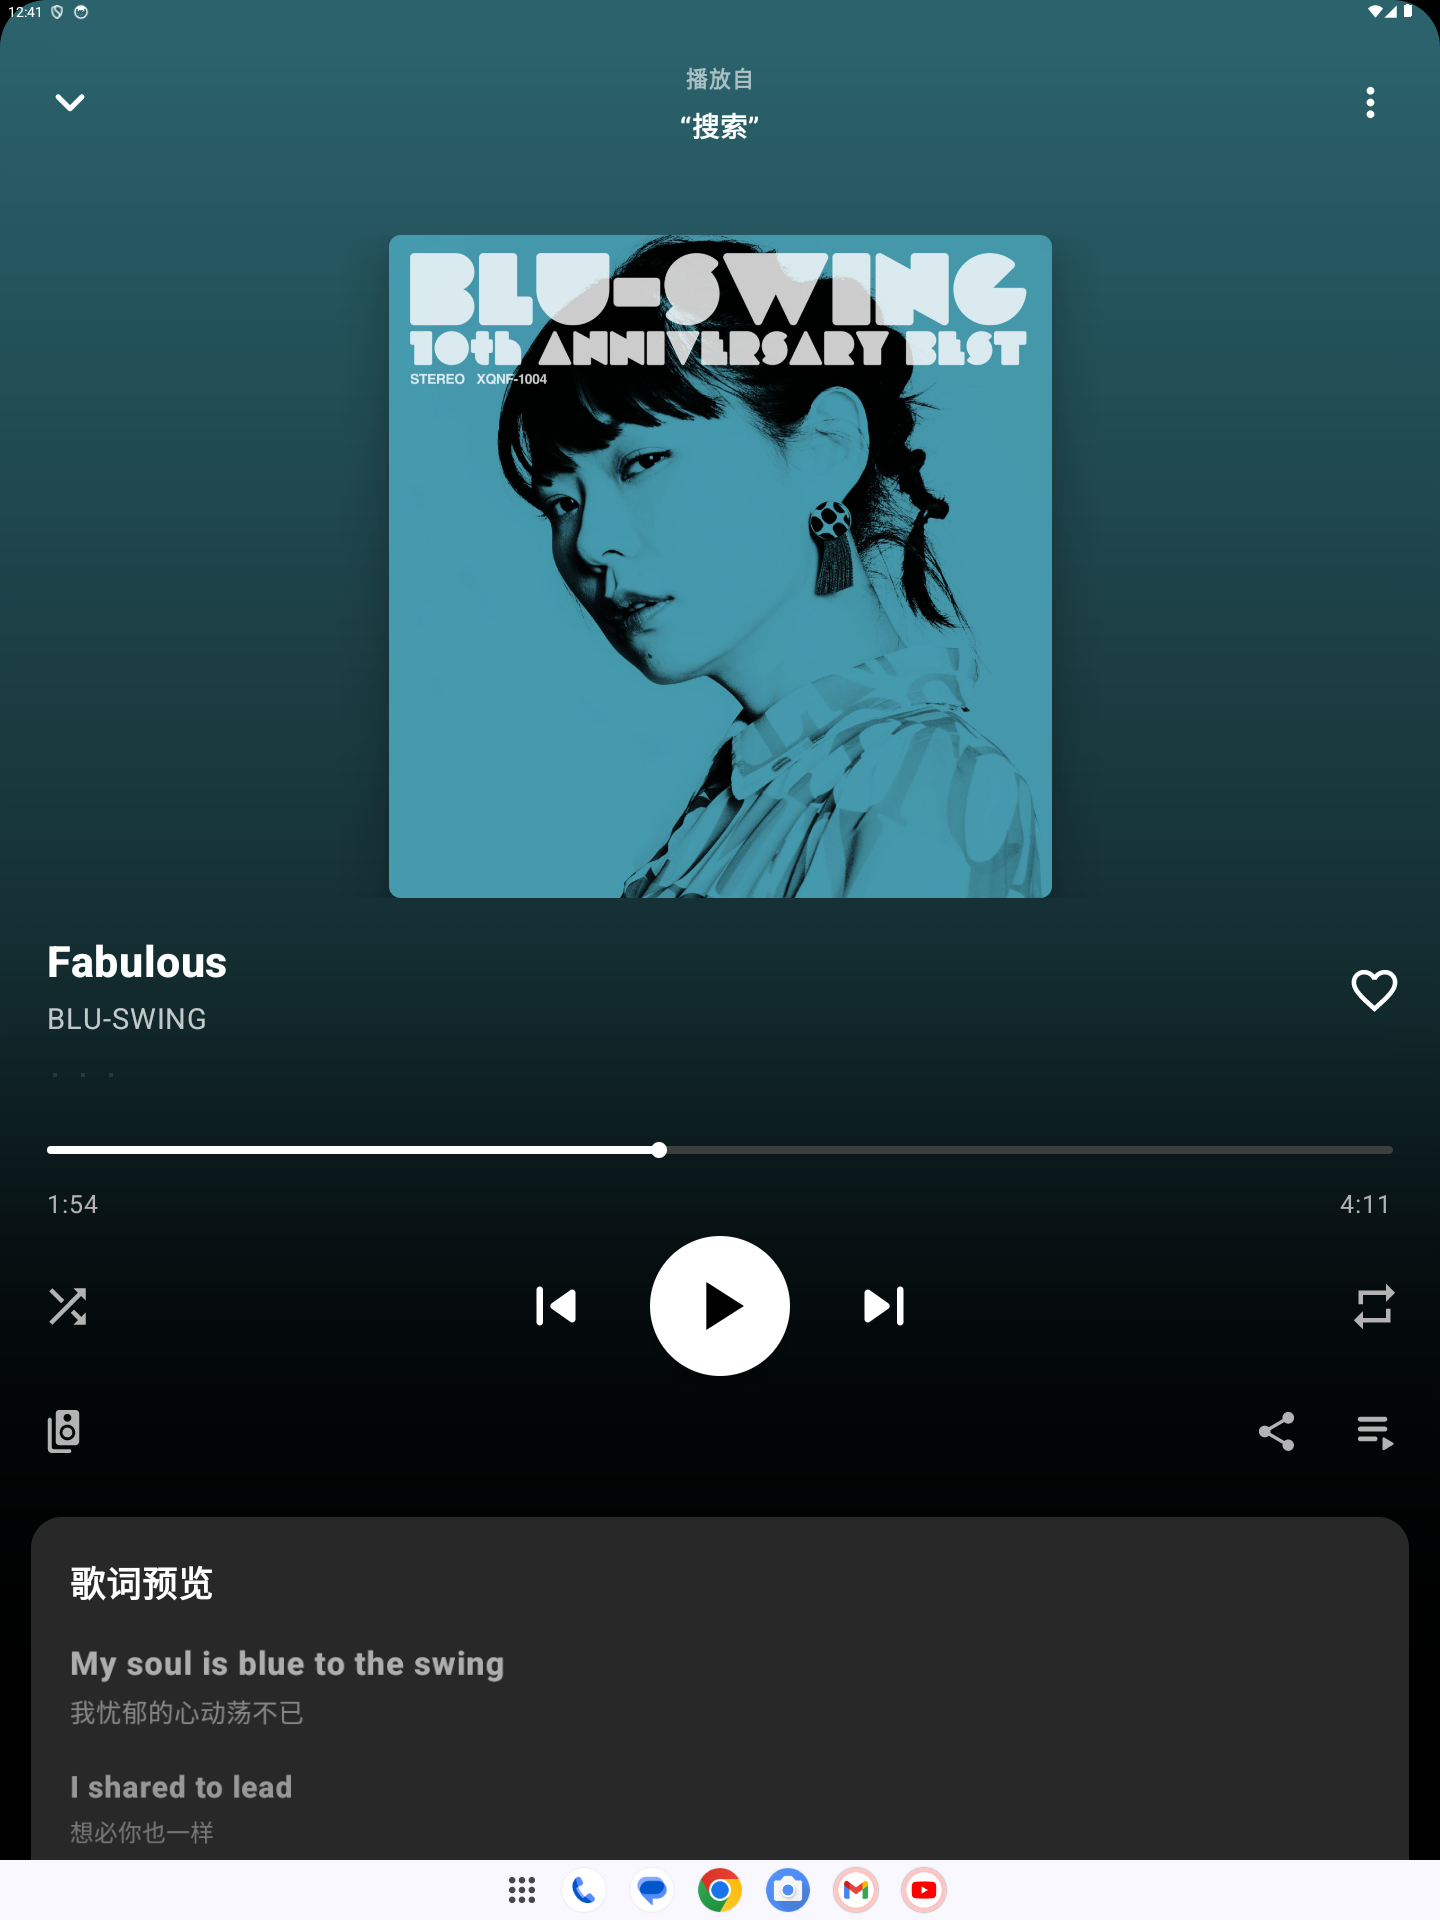
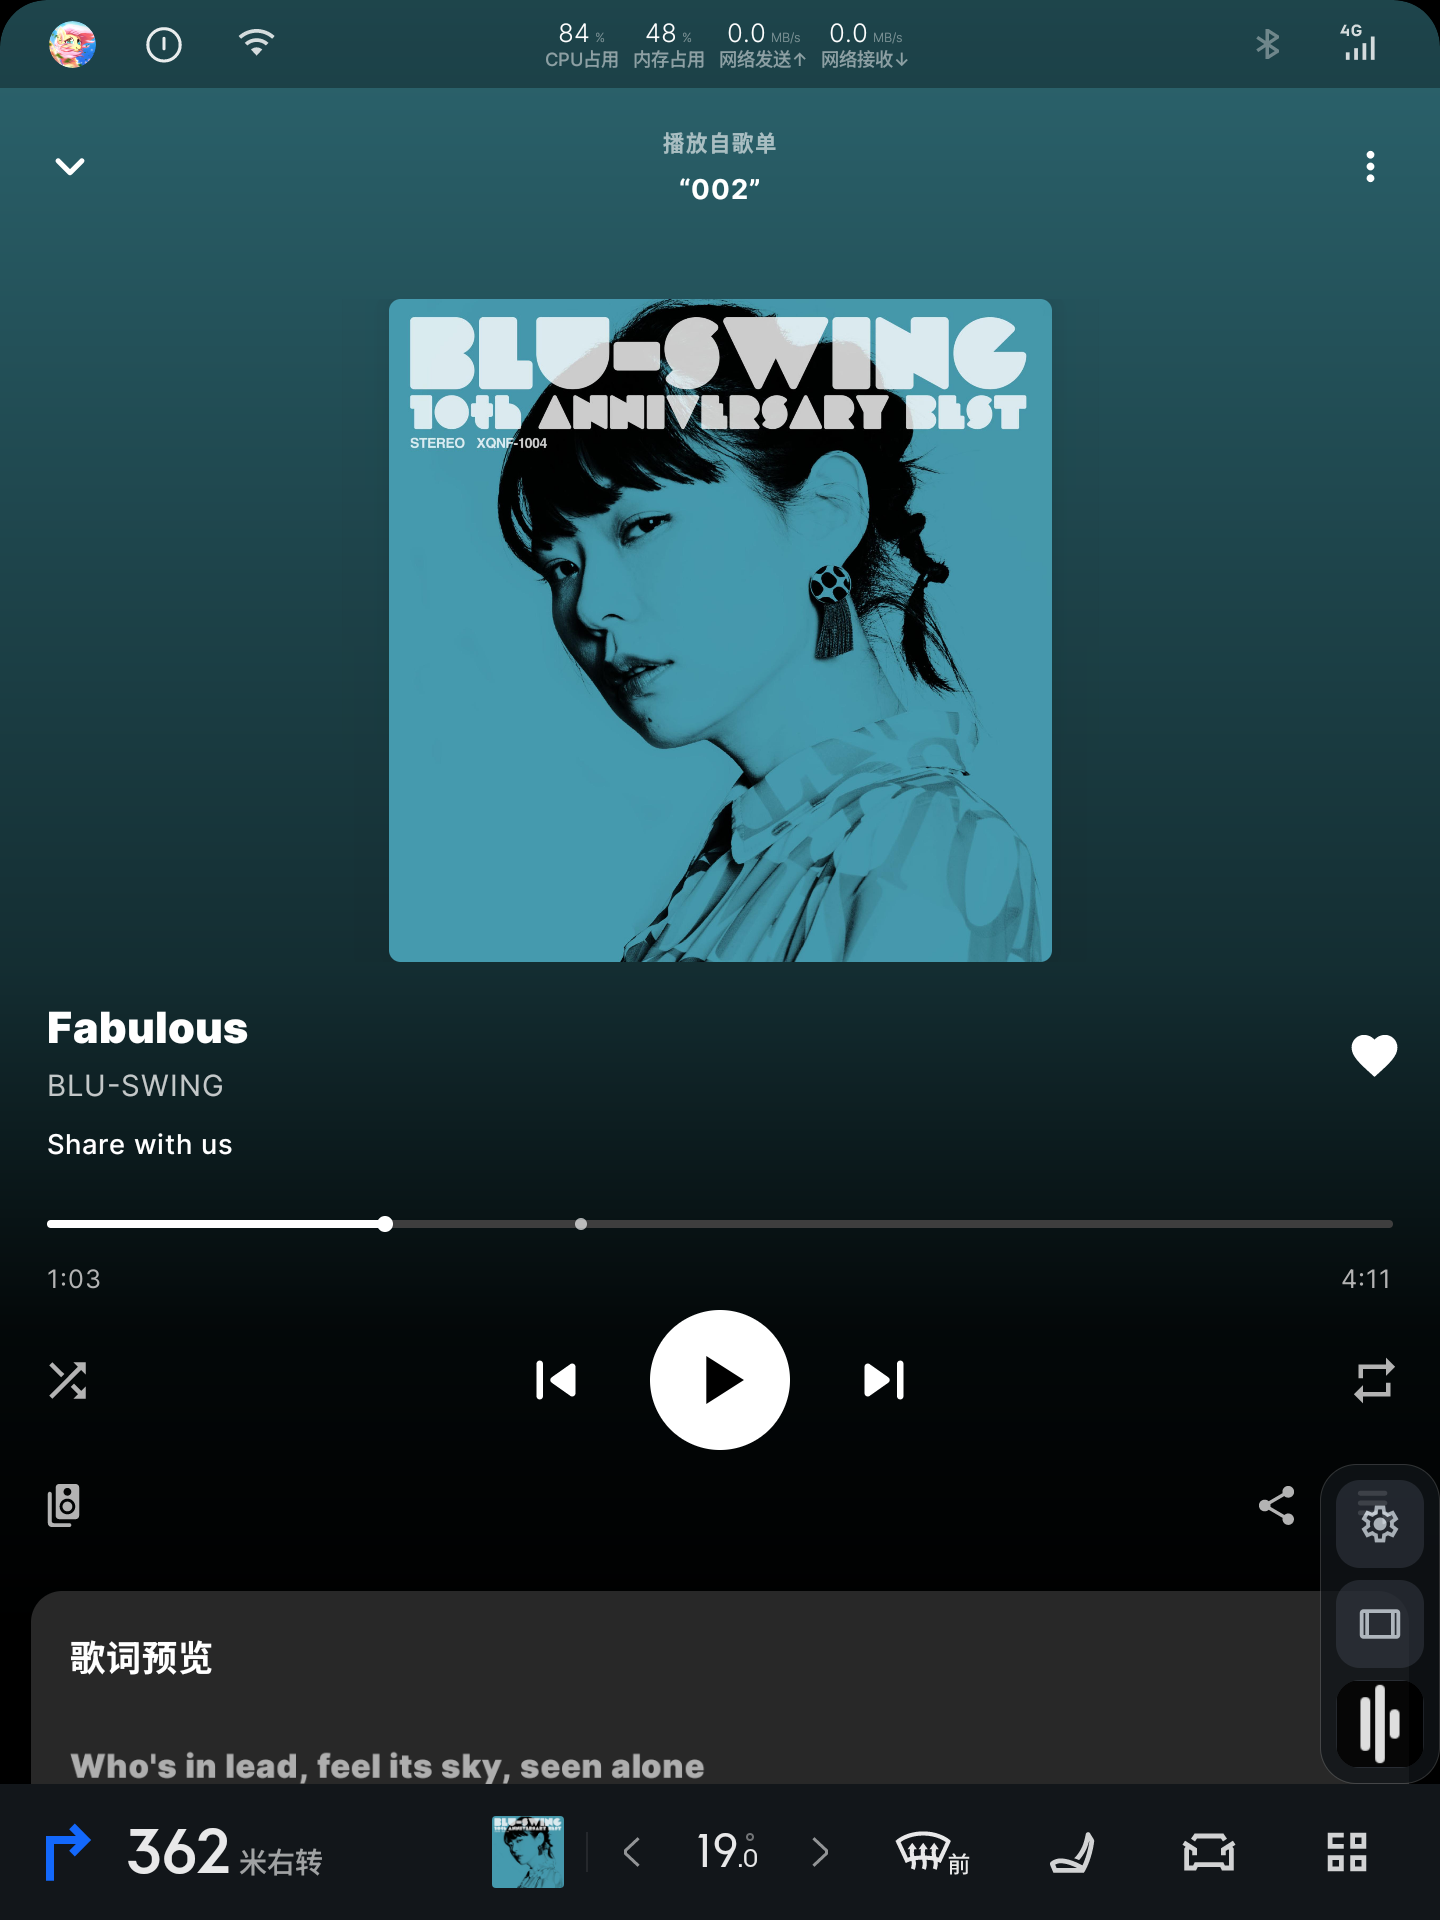
docs: replace dual-display images with in-car screenshots

Changed region(s): [[0.0, 0.4688, 1.0, 1.0], [0.0, 0.0, 1.0, 0.5], [0.9375, 0.5, 0.9688, 0.5625]]

diff --git a/README.md b/README.md
@@ -6,8 +6,6 @@
 
 ## 主屏与副屏同显
 
-以 **《Fabulous》— BLU-SWING** 为例：主驾竖屏显示封面和播放控件，副驾宽屏可以同时显示同一首歌及歌词卡片。两屏共享歌曲、播放进度和暂停状态；各自的页面切换与滚动位置独立。
-
 <table>
   <tr><th>主屏 · 1440 × 1920</th><th>副屏 · 2880 × 1080</th></tr>
   <tr>
@@ -15,10 +13,6 @@
     <td><a href="docs/l7/fabulous-passenger.png"><img src="docs/l7/fabulous-passenger.png" width="620" alt="Melodia 副屏宽屏播放页：Fabulous，BLU-SWING 与歌词卡片"></a></td>
   </tr>
 </table>
-
-截图来自 NAS 上的 Android 14 模拟器，运行 Melodia For L7 `2026.11.21`。两屏均为 `160 dpi`，在同一次播放会话暂停于 `1:54` 时分别截取；副屏是应用在独立虚拟显示器上的 `Presentation` 窗口。点击图片可查看原图。
-
-车机上可先打开 **头像侧栏 → 异屏同显 → 启用异屏同显**，将「副屏启动内容」设为「播放页」，再搜索并播放 `Fabulous`（`BLU-SWING`）。[原曲试听（艺人官方频道）](https://www.youtube.com/watch?v=Wmc-YfXOBB4)
 
 ## 车机版功能
 
